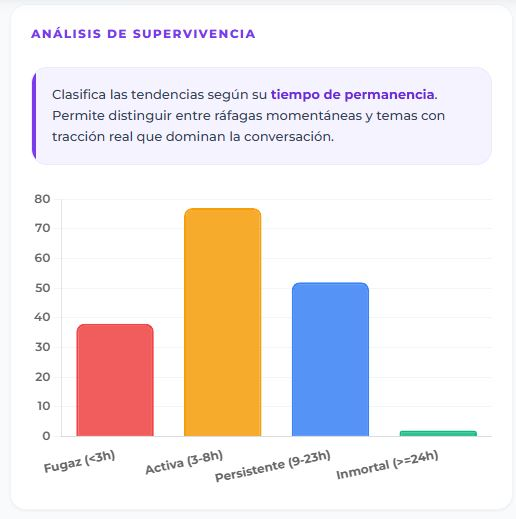
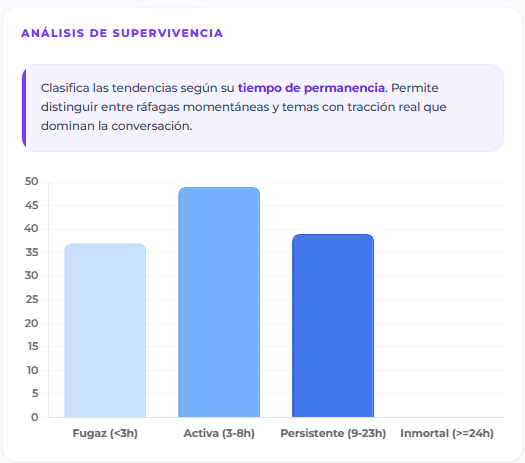
Feat: cambiar paleta de colores front

diff --git a/frontend/index.html b/frontend/index.html
@@ -34,19 +34,24 @@
 
         <nav class="flex-1 px-4 space-y-2">
             <a href="#" class="nav-link active" onclick="showSection('dashboard', this)">
-                <span class="icon">📊</span> Dashboards
+                <i data-lucide="bar-chart-3" class="icon"></i>
+                <span class="nav-text">Dashboards</span>
             </a>
             <a href="#" class="nav-link" onclick="showSection('alcance', this)">
-                <span class="icon">🌎</span> Alcance de Tendencias
+                <i data-lucide="globe-2" class="icon"></i>
+                <span>Alcance de Tendencias</span>
             </a>
             <a href="#" class="nav-link" onclick="showSection('ia', this)">
-                <span class="icon">✨</span> Análisis IA
+                <i data-lucide="cpu" class="icon"></i>
+                <span>Análisis IA</span>
             </a>
             <a href="#" class="nav-link" onclick="showSection('acerca', this)">
-                <span class="icon">ℹ</span> Acerca de
+                <i data-lucide="info" class="icon"></i>
+                <span>Acerca de</span>
             </a>
             <a href="#" class="nav-link" onclick="showSection('ayuda', this)">
-                <span class="icon">❓</span> Ayuda
+                <i data-lucide="help-circle" class="icon"></i>
+                <span>Ayuda</span>
             </a>
         </nav>
     </aside>
@@ -58,7 +63,7 @@
                 <div class="flex flex-col">
                     <span class="text-[10px] font-black opacity-70 uppercase tracking-widest">Estado del Sistema</span>
                     <p id="last-update" class="text-sm font-bold italic">Cargando...</p>
-                    <p class="text-[10px] opacity-80 font-medium">🕒 Zona Horaria: Ecuador (GMT-5)</p>
+                    <p class="text-[10px] opacity-80 font-medium flex items-center gap-1 whitespace-nowrap"><i data-lucide="clock" class="w-3 h-3"></i>Zona Horaria: Ecuador (GMT-5)</p>
                 </div>
                 
                 <div class="flex items-center gap-3 bg-white/10 p-2 rounded-2xl backdrop-blur-lg border border-white/20">
@@ -109,7 +114,8 @@
             <section id="sec-dashboard" class="content-section space-y-8">
                 <div class="grid grid-cols-1 md:grid-cols-3 gap-8">
                     <div class="stat-card card-green">
-                        <div class="card-icon">📈</div>
+                        <div class="card-icon">
+                            <i data-lucide="trending-up"></i></div>
                         <div class="card-content">
                             <h3 id="stat-total">0</h3>
                             <p>Tendencias totales</p>
@@ -118,7 +124,8 @@
                     </div>
 
                     <div class="stat-card card-blue">
-                        <div class="card-icon">🌍</div>
+                        <div class="card-icon">
+                            <i data-lucide="map-pin"></i></div>
                         <div class="card-content">
                             <h3 id="stat-paises">20</h3>
                             <p>Países Analizados</p>
@@ -127,7 +134,8 @@
                     </div>
 
                     <div class="stat-card card-purple">
-                        <div class="card-icon">✨</div>
+                        <div class="card-icon">
+                            <i data-lucide="globe-2"></i></div>
                         <div class="card-content">
                             <h3 id="stat-globales">0</h3>
                             <p>Tendencias Globales 
@@ -187,9 +195,9 @@
                         <div class="p-6">
                             <p class="text-sm text-slate-700 leading-relaxed font-medium">
                                 Esta métrica analiza la expansión territorial de los temas. Una tendencia se clasifica como 
-                                <span class="px-3 py-1 rounded-full text-[11px] font-black bg-purple-600 text-white mx-1">GLOBAL</span> si entra en el ranking mundial, 
-                                <span class="px-3 py-1 rounded-full text-[11px] font-black bg-sky-400 text-white mx-1">REGIONAL</span> si aparece en varios países, 
-                                y <span class="px-3 py-1 rounded-full text-[11px] font-black bg-emerald-500 text-white mx-1">LOCAL</span> si está contenida en una sola nación.
+                                <span class="badge badge-global mx-1">GLOBAL</span> si entra en el ranking mundial,
+                                <span class="badge badge-regional mx-1">REGIONAL</span> si aparece ne varios paises
+                                y <span class="badge badge-local mx-1">LOCAL</span> si está contenida en una sola nación.
                             </p>
                         </div>
                     </div>
@@ -219,7 +227,8 @@
                             <p class="text-sm text-slate-500">Clasificación por IA y Narrativa de Contexto</p>
                         </div>
                         <button id="btn-ai" class="bg-indigo-600 hover:bg-indigo-700 text-white px-6 py-3 rounded-xl font-black text-xs uppercase transition-all flex items-center gap-2 shadow-lg shadow-indigo-200 active:scale-95">
-                            ✨ Generar Análisis con IA
+                            <i data-lucide="cpu" class="w-4 h-4"></i>
+                            Generar Análisis con IA
                         </button>
                     </div>
 
@@ -232,7 +241,8 @@
                         </div>
                         <div id="ai-response-container" class="lg:col-span-2 hidden p-6 bg-indigo-50 border-l-8 border-indigo-500 rounded-xl">
                             <h3 class="text-indigo-900 font-bold mb-2 flex items-center gap-2">
-                                <span>📝</span> Resumen Ejecutivo
+                                <i data-lucide="file-text"></i>
+                                Resumen Ejecutivo
                             </h3>
                             <p id="ai-text" class="text-slate-700 italic leading-relaxed font-medium whitespace-pre-line"></p>
                         </div>
@@ -241,7 +251,7 @@
 
                 <div class="space-y-4">
                     <div class="flex items-center gap-2 mb-2">
-                        <span class="text-lg">🏷</span>
+                        <i data-lucide="tag" class="w-5 h-5"></i>
                         <h3 class="text-lg font-bold text-slate-800">Tendencias por Categoría</h3>
                     </div>
                     
@@ -431,6 +441,12 @@
             // Marcar link como activo
             if(element) element.classList.add('active');
         }
+    </script>
+
+    <script src="https://unpkg.com/lucide@latest"></script>
+
+    <script>
+        lucide.createIcons();
     </script>
     
     <script src="/js/app.js"></script>

diff --git a/frontend/css/styles.css b/frontend/css/styles.css
@@ -62,7 +62,19 @@ body {
 }
 
 .nav-link .icon {
-    font-size: 1.2rem;
+    width: 20px;
+    height: 20px;
+    color: var(--sidebar-text); /* #64748b */
+    stroke-width: 2;
+    flex-shrink: 0;
+}
+
+.nav-link:hover .icon {
+    color: var(--primary-blue);
+}
+
+.nav-link.active .icon {
+    color: #ffffff;
 }
 
 /* --- Cabecera (Header) --- */
@@ -139,6 +151,12 @@ header input {
     backdrop-filter: blur(5px);
 }
 
+.card-icon svg {
+    width: 42px;
+    height: 42px;
+    stroke-width: 2;
+}
+
 .card-content h3 {
     font-family: 'Montserrat', sans-serif !important;
     font-size: 3.2rem !important;
@@ -190,17 +208,17 @@ header input {
 
 /* Colores Gradientes Ultra-Vibrantes */
 .card-green {
-    background: linear-gradient(135deg, #10b981 0%, #059669 100%);
+    background: linear-gradient(135deg, #10B981 0%, #059669 100%);
     box-shadow: 0 10px 20px -5px rgba(16, 185, 129, 0.4);
 }
 
 .card-blue {
-    background: linear-gradient(135deg, #3b82f6 0%, #2563eb 100%);
+    background: linear-gradient(135deg, #2563EB 0%, #1D4ED8 100%);
     box-shadow: 0 10px 20px -5px rgba(59, 130, 246, 0.4);
 }
 
 .card-purple {
-    background: linear-gradient(135deg, #8b5cf6 0%, #7c3aed 100%);
+    background: linear-gradient(135deg, #6366F1 0%, #4F46E5 100%);
     box-shadow: 0 10px 20px -5px rgba(139, 92, 246, 0.4);
 }
 
@@ -294,6 +312,21 @@ header input {
     background-color: #f0fdf4 !important; 
     color: #22c55e !important;
     border: 1px solid #bbf7d0;
+}
+
+/* Check */
+.lucide-check-circle {
+    display: inline-flex;
+    align-items: center;
+    stroke: #10b981; /* emerald-500 */
+}
+
+/* X */
+.lucide-x-circle {
+    display: inline-flex;
+    align-items: center;
+    stroke: #ef4444; /* red-500 */
+    opacity: 0.8;
 }
 
 /* --- Animaciones de Carga --- */

diff --git a/frontend/js/app.js b/frontend/js/app.js
@@ -192,7 +192,7 @@ function drawSurvival(data) {
     
     if (chartInstances.survival) chartInstances.survival.destroy();
 
-    const aiColors = ['#ef4444', '#f59e0b', '#3b82f6', '#10b981'];
+    const aiColors = ['#BFDBFE', '#60A5FA', '#2563EB', '#1E3A8A'];
 
     chartInstances.survival = new Chart(ctx, {
         type: 'bar',
@@ -323,13 +323,15 @@ function drawSpreadTable(data) {
                     ${item.scope === 'global' ? 'Global' : item.scope === 'regional' ? 'Regional' : 'Local'}
                 </span>
             </td>
-            <td class="p-4 text-xl">
-                ${item.in_worldwide ? '✅' : '❌'}
+            <td class="p-4 text-xl text-center align-middle">
+                ${item.in_worldwide ? `<i data-lucide="check-circle"></i>`
+            : `<i data-lucide="x-circle"></i>`}
             </td>
             <td class="p-4 text-xs text-slate-500 font-medium">${translatedCountries.join(', ')}</td>
         `;
         container.appendChild(row);
     });
+    lucide.createIcons();
 }
 
 /**
